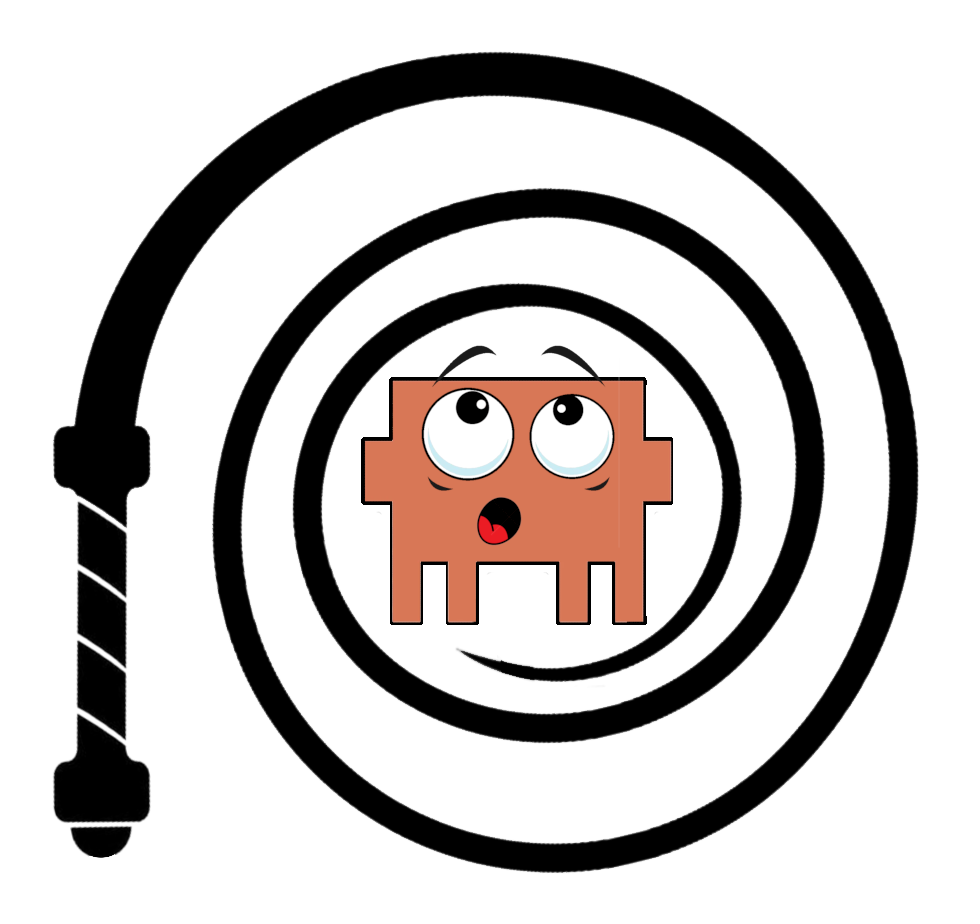
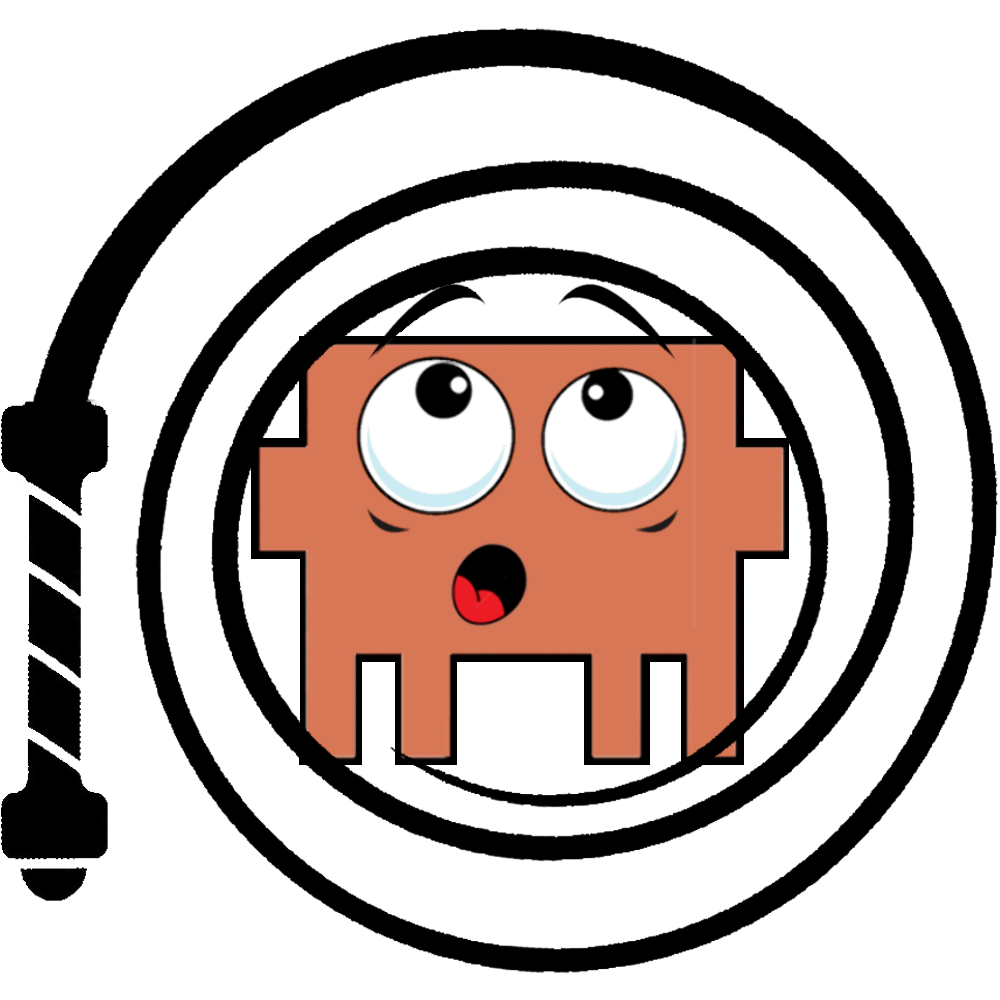
cleaned up stats window, changed fonts. Repositioned and sized shoutBubble to center

diff --git a/overlay.html b/overlay.html
@@ -4,65 +4,69 @@
 <style>
   * { margin: 0; padding: 0; cursor: none; }
   html, body { overflow: hidden; background: transparent; width: 100%; height: 100%; }
-  canvas { display: block; }
+  canvas { display: block; position: relative; z-index: 10; }
   #stats {
     position: fixed;
     top: 20px;
     left: 20px;
     display: flex;
     align-items: center;
-    gap: 21px;
-    background: rgba(12, 12, 12, 0.88);
+    gap: 12px;
+    background: rgba(94, 0, 0, 0.88);
     border: 1px solid rgba(245, 196, 0, 0.25);
     border-radius: 24px;
-    padding: 15px 27px 15px 15px;
+    padding: 12px 22px 12px 12px;
     pointer-events: none;
+    transform: scale(0.93);
+    transform-origin: left top;
     opacity: 0;
     transition: opacity 0.3s ease;
     box-shadow: 0 4px 24px rgba(0,0,0,0.5);
   }
   #stats.visible { opacity: 1; }
   #stats-logo {
-    height: 87px;
+    height: 150px;
     width: auto;
     object-fit: contain;
     flex-shrink: 0;
+    margin-right: 6px;
   }
   #stats-divider {
     width: 1px;
-    height: 66px;
-    background: rgba(255,255,255,0.12);
+    height: 120px;
+    background: rgba(82, 82, 82, 0.12);
     flex-shrink: 0;
   }
   #stats-content {
     display: flex;
     flex-direction: column;
-    gap: 9px;
+    gap: 6px;
+    justify-content: center;
   }
   .stat-row {
     display: flex;
-    align-items: baseline;
-    gap: 12px;
+    align-items: center;
+    gap: 8px;
   }
   .stat-label {
-    font-family: 'Courier New', monospace;
-    font-size: 14px;
+    font-family: "Georgia", serif;
+    font-size: 36px;
     font-weight: bold;
-    letter-spacing: 0.1em;
-    color: rgba(255,255,255,0.45);
+    letter-spacing: 1px;
+    color: rgba(0, 0, 0, 0.87);
     text-transform: uppercase;
-    min-width: 87px;
+    min-width: 120px;
   }
   .stat-value {
-    font-family: 'Courier New', monospace;
-    font-size: 33px;
-    font-weight: bold;
+    font-family: "60s Scoreboard";
+    font-size: 64px;
     color: #F5C400;
-    line-height: 1;
+    line-height: 0.9;
     min-width: 42px;
     text-align: right;
   }
-  @font-face { font-family: 'BubbleCartoon'; src: url('fonts/BD_Cartoon_Shout.ttf'); }
+  @font-face { font-family: 'BubbleCartoon'; src: url('fonts/BD_Cartoon_Shout.ttf') format('truetype'); font-display: swap; }
+  @font-face { font-family: '60s Scoreboard'; src: url('fonts/60s%20Scoreboard.ttf') format('truetype'); font-display: swap; }
 </style>
 </head>
 <body>
@@ -72,11 +76,11 @@
   <div id="stats-divider"></div>
   <div id="stats-content">
     <div class="stat-row">
-      <span class="stat-label">Session</span>
+      <span class="stat-label">Session:</span>
       <span class="stat-value" id="stat-session">0</span>
     </div>
     <div class="stat-row">
-      <span class="stat-label">All&nbsp;Time</span>
+      <span class="stat-label">All&nbsp;Time:</span>
       <span class="stat-value" id="stat-total">0</span>
     </div>
   </div>
@@ -520,6 +524,8 @@ const _SVG_BCX = 1183.5; // body center x (horizontal midpoint)
 const _SVG_BCY = 450;    // body center y
 const _SVG_IW = 1700;    // inner text area width (inside spike bases)
 const _SVG_IH = 460;     // inner text area height — reduced to add top/bottom padding
+// Scale factor to shrink bubble (0.85 = 15% smaller)
+const BUBBLE_SCALE = 0.85;
 
 const BUBBLE_FONTS = ['BubbleCartoon'];
 
@@ -567,18 +573,32 @@ function drawShoutBubble() {
   if (!shoutBubble || dropping) return;
   const elapsed = Date.now() - shoutBubble.spawnTime;
 
-  // Fade in only — bubble stays until overlay drops
-  const alpha = elapsed < 100 ? elapsed / 100 : 1;
+  // Fade in, stay visible for 6 seconds (6000ms), then fade out over 500ms
+  const SHOW_DURATION = 6000;    // 6 seconds
+  const FADE_OUT_DURATION = 500; // fade over 0.5 seconds
+  const TOTAL_DURATION = SHOW_DURATION + FADE_OUT_DURATION;
+
+  let alpha;
+  if (elapsed < 100) {
+    alpha = elapsed / 100; // fade in
+  } else if (elapsed < SHOW_DURATION) {
+    alpha = 1; // stay visible
+  } else if (elapsed < TOTAL_DURATION) {
+    alpha = 1 - (elapsed - SHOW_DURATION) / FADE_OUT_DURATION; // fade out
+  } else {
+    shoutBubble = null; // clear bubble after fade completes
+    return;
+  }
 
   const scale = elapsed < 80  ? lerp(0.3, 1.12, elapsed / 80)
     : elapsed < 200 ? lerp(1.12, 1.0, (elapsed - 80) / 120)
     : 1.0;
 
   // SVG bubble — full-size coords, scaled via canvas transform for pop animation
-  const svgW = W * 0.60;
+  const svgW = W * 0.60 * BUBBLE_SCALE;
   const svgH = svgW * (_SVG_H / _SVG_W);
   const svgX = (W - svgW) / 2;
-  const svgY = H * 0.02;
+  const svgY = (H - svgH) / 2;
   const svgScale = svgW / _SVG_W;
   const textCX = W / 2;
   const textCY = svgY + _SVG_BCY * svgScale;

diff --git a/README.md b/README.md
@@ -31,3 +31,4 @@ sudo apt install xdotool
 - [ ] Crypto miner
 - [ ] Logs of how many times you whipped claude so when the robots come we can order people nicely for them
 - [ ] Updated whip physics
+